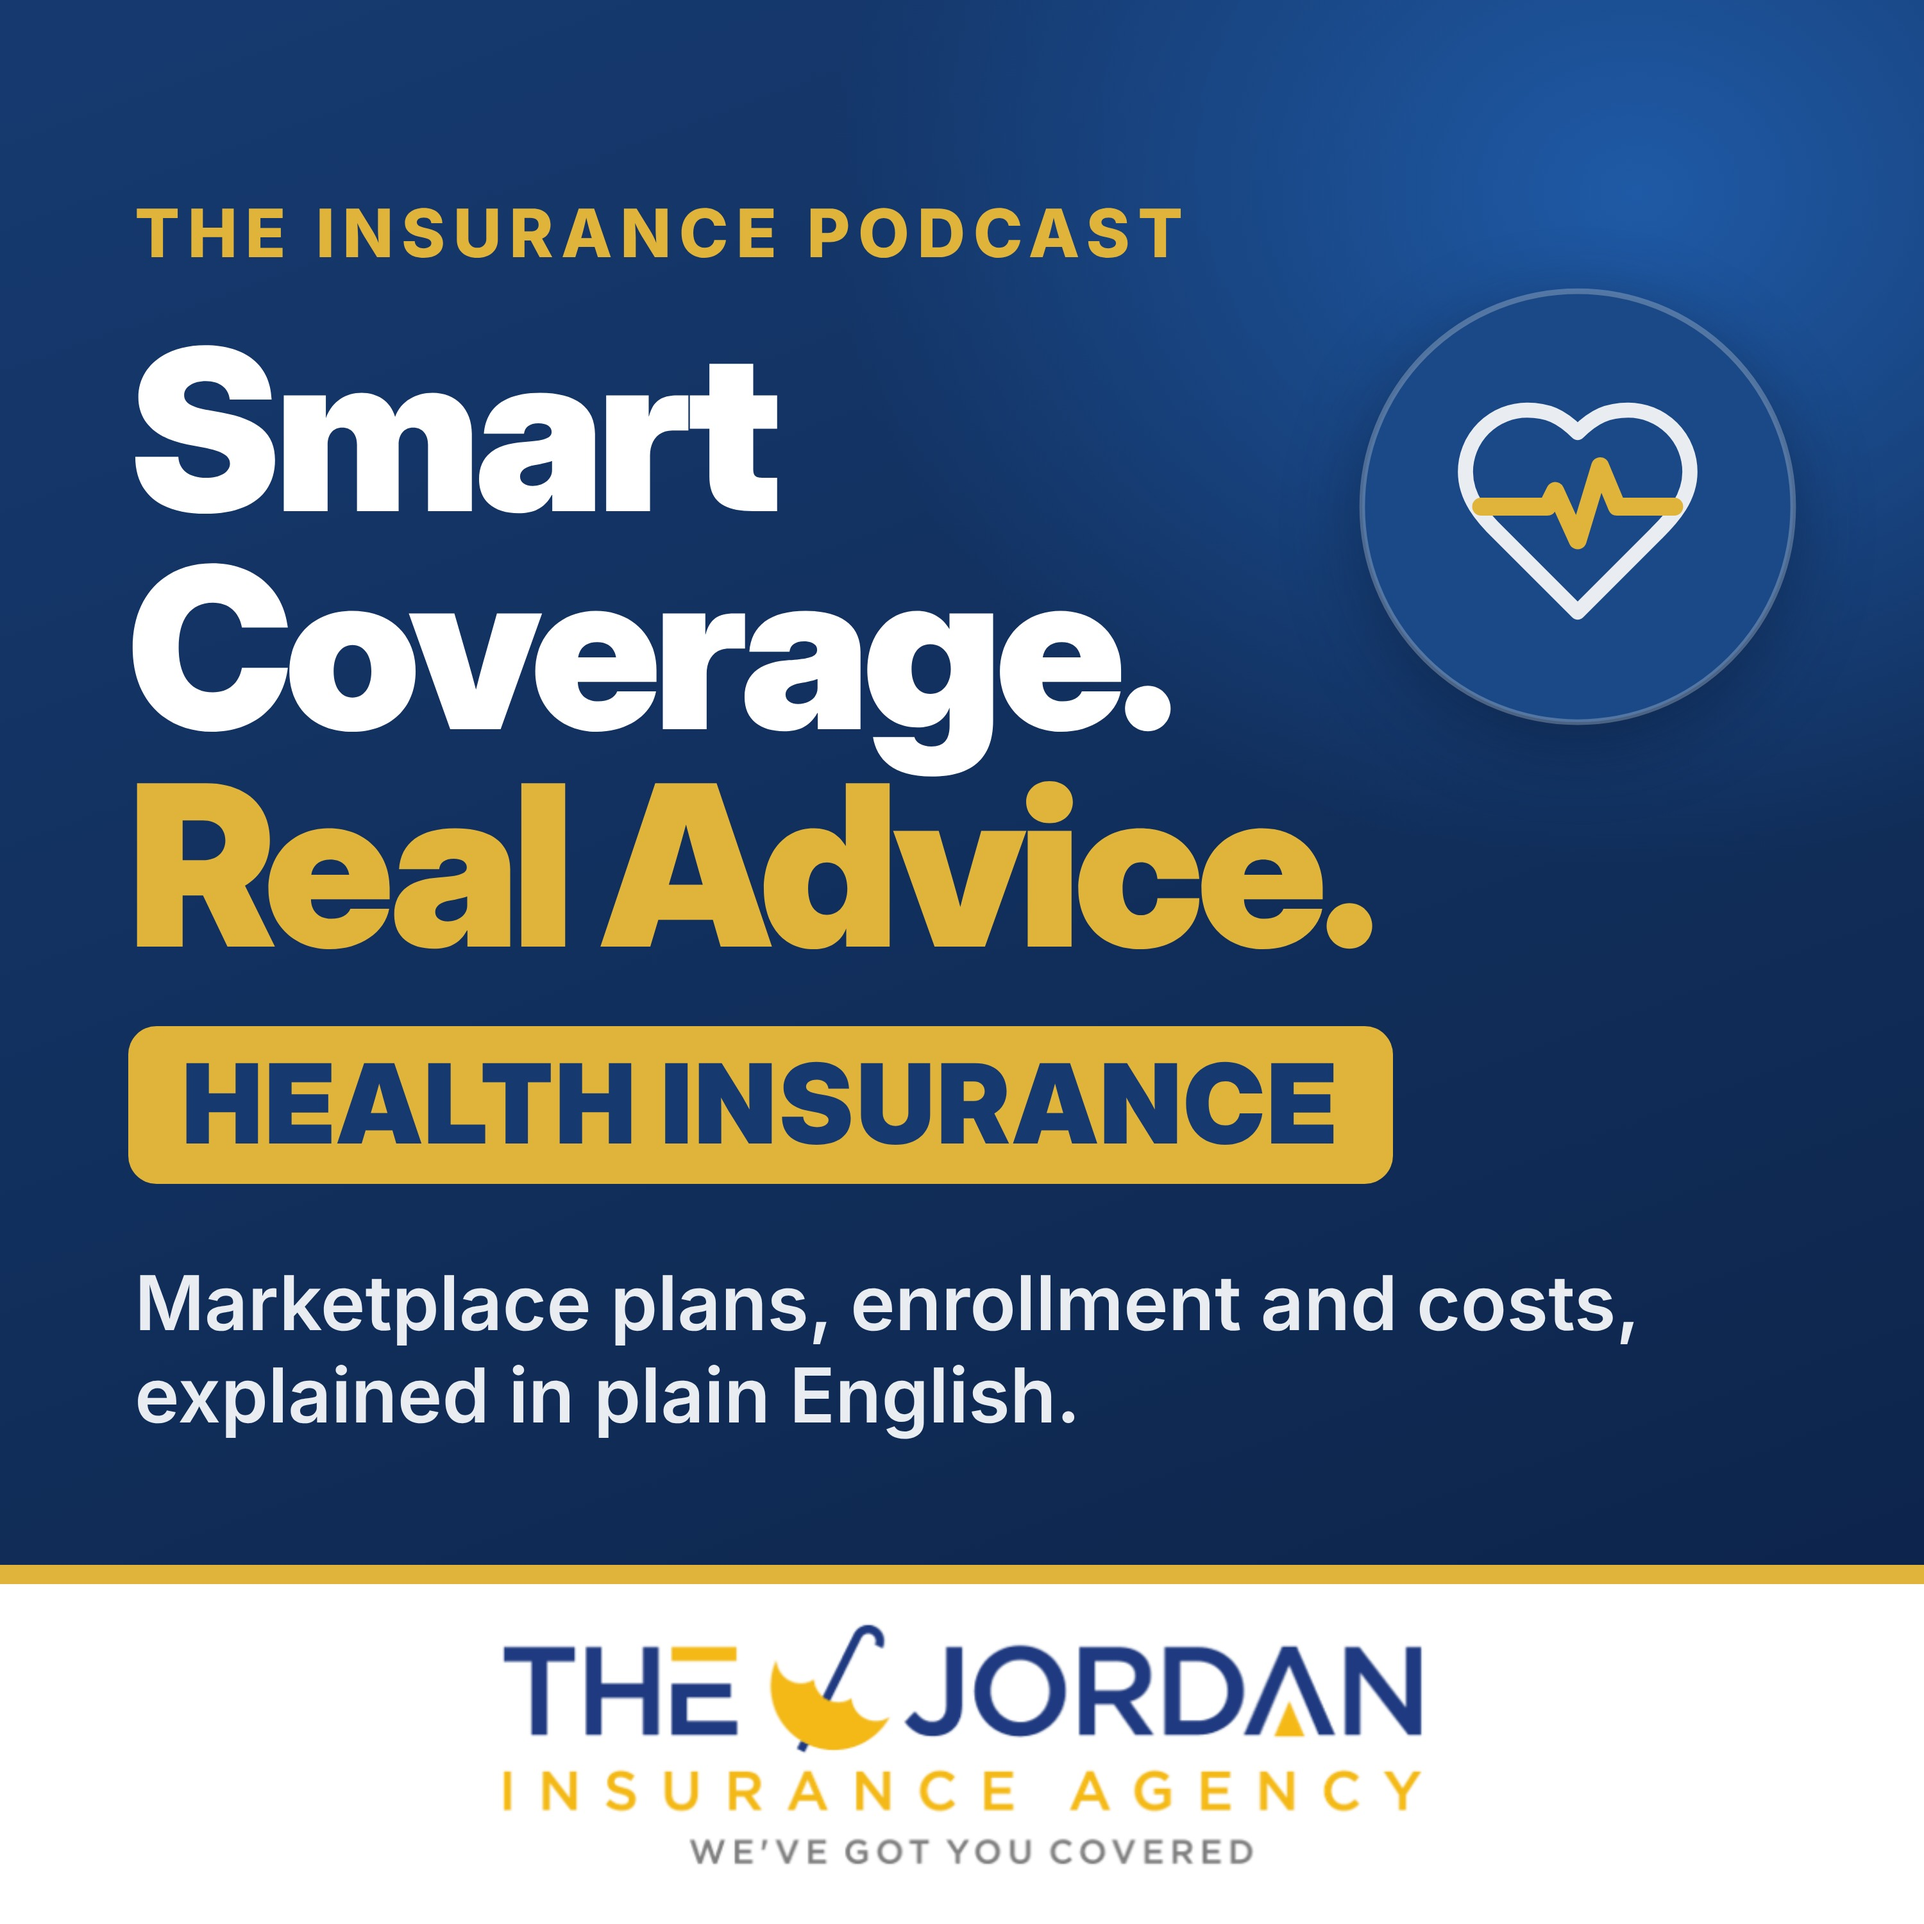
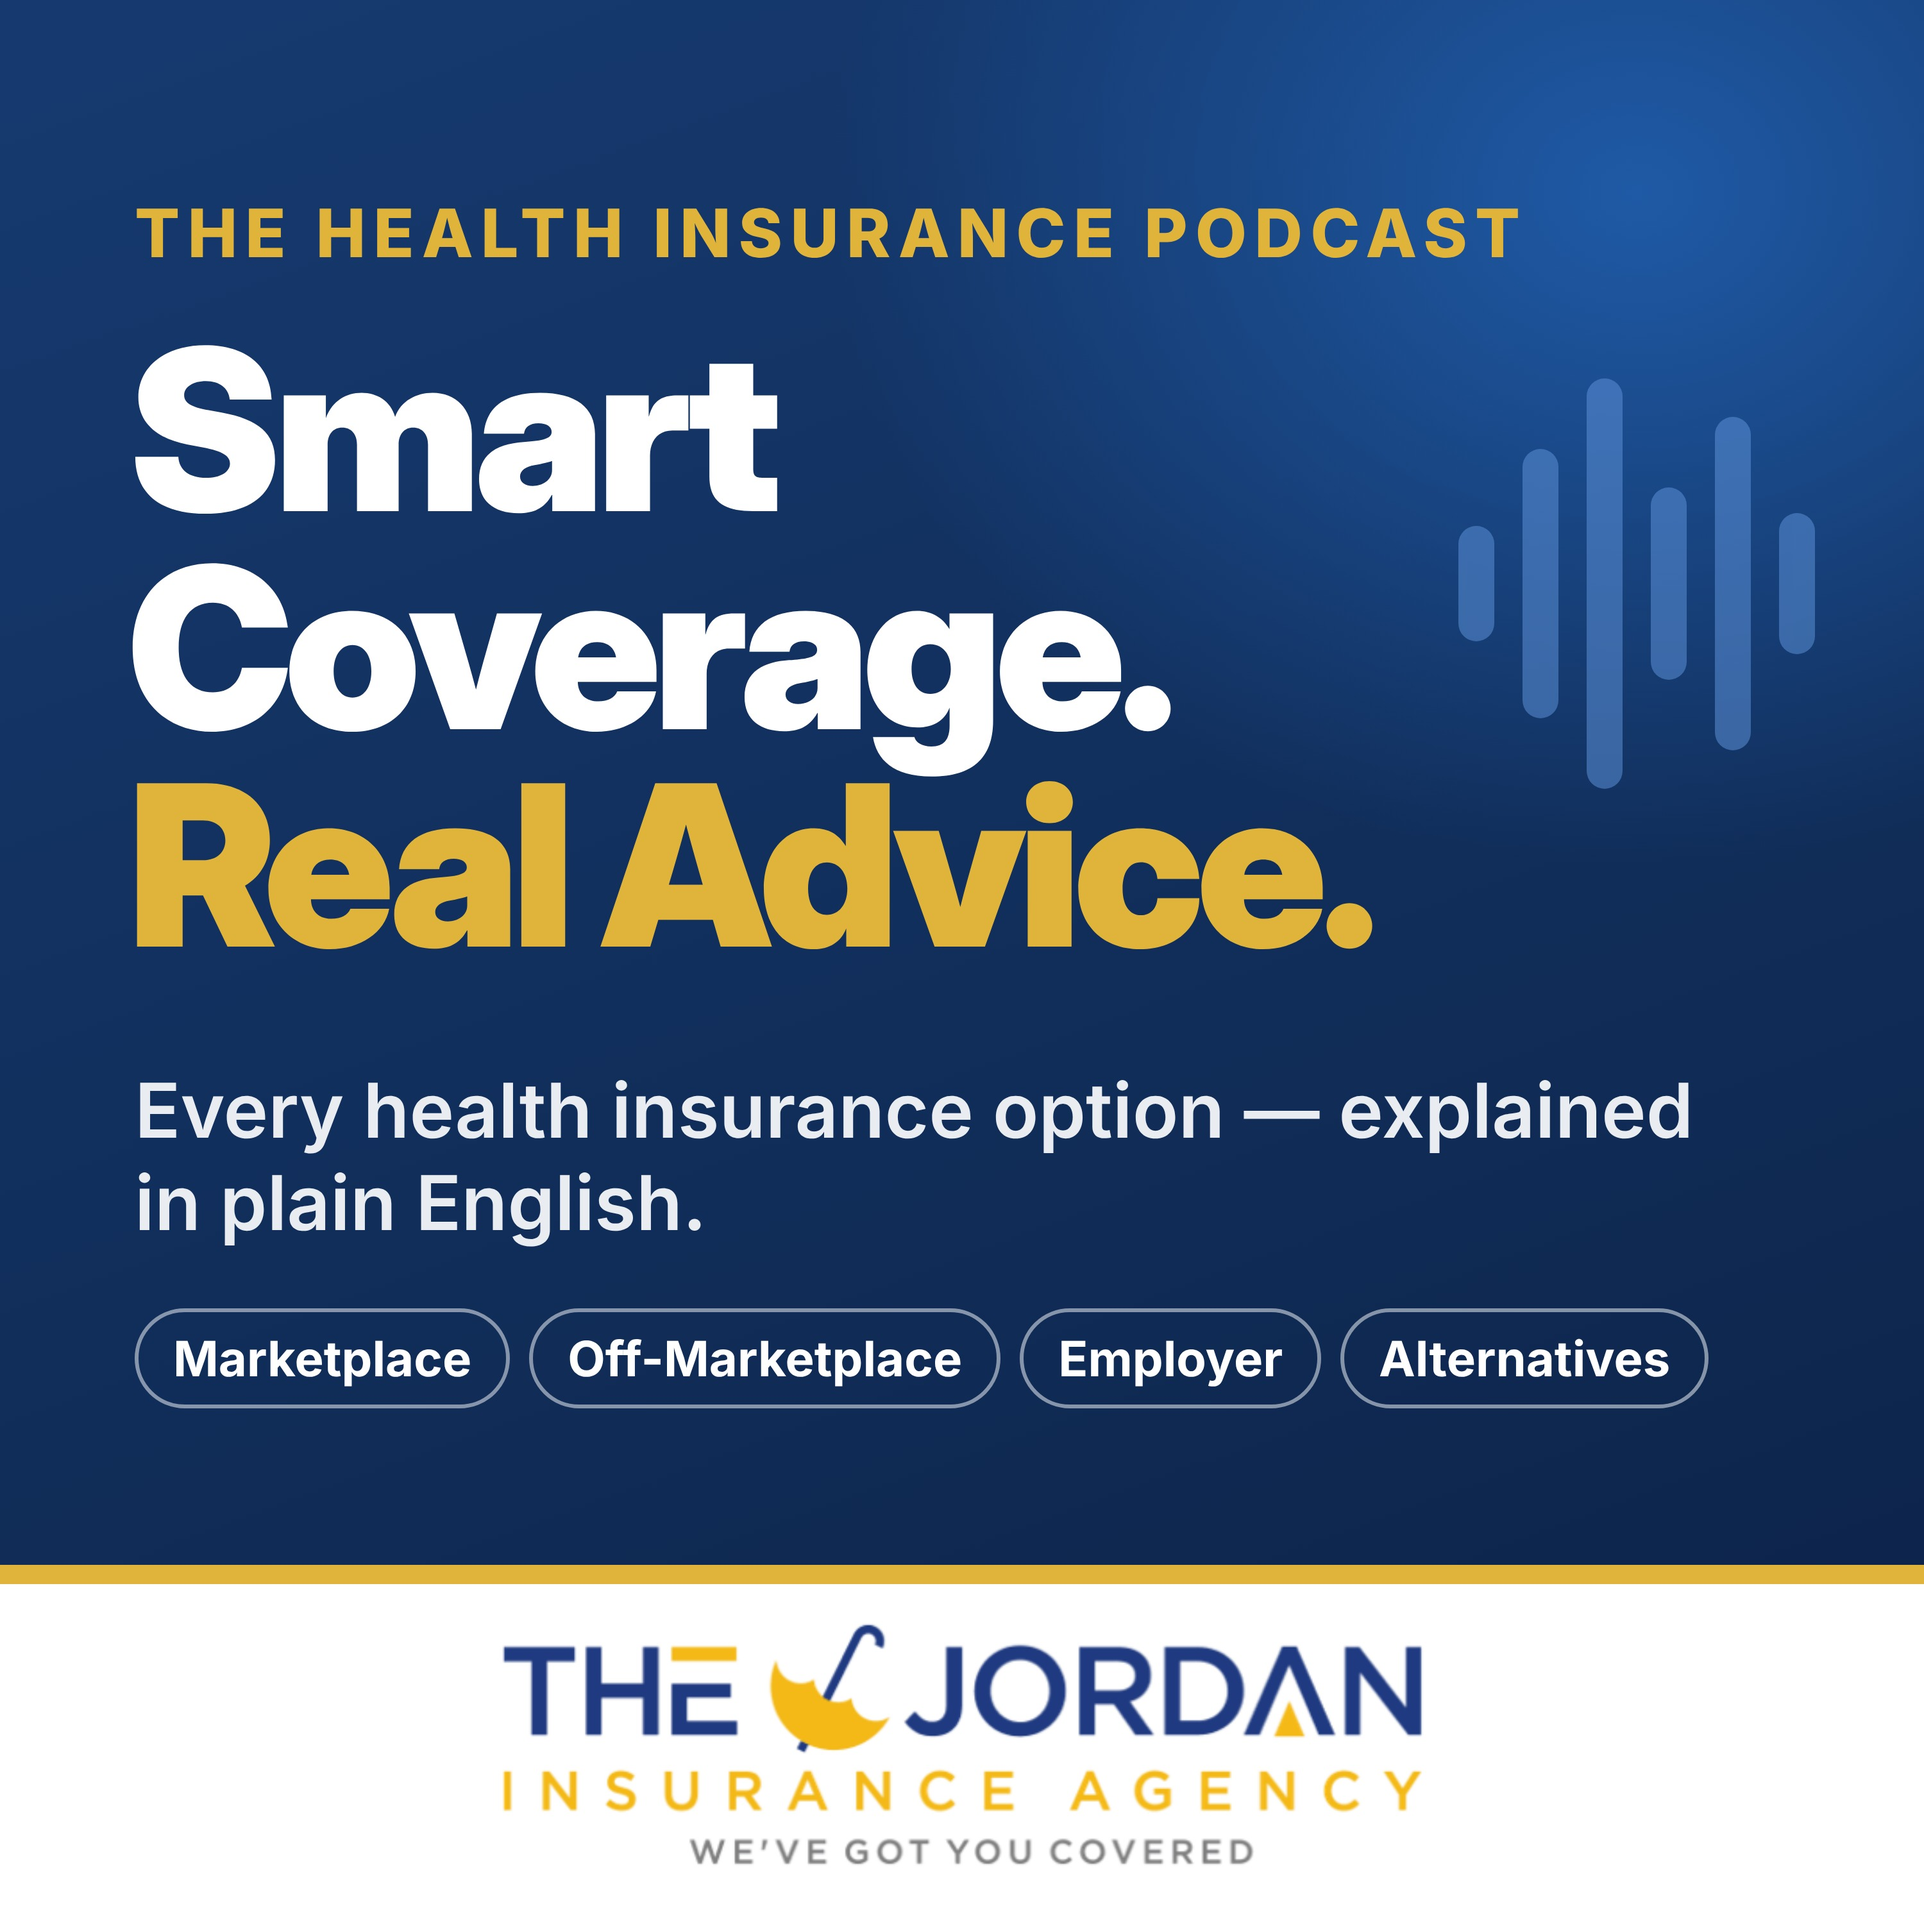
Health show: main-cover design and broader listing
Claude-Session: https://claude.ai/code/session_013V4QW24snhwLaEpdqEFU45

diff --git a/assets/src/the-jordan-insurance-agency-cover-health.html b/assets/src/the-jordan-insurance-agency-cover-health.html
@@ -1,38 +1,32 @@
 <!doctype html>
 <html><head><meta charset="utf-8">
 <style>
-  /* HEALTH INSURANCE show cover art — 3000x3000 (Apple/Spotify spec). Brand: navy/royal dominant, gold accent only. */
+  /* Health Insurance show cover (Billy, Oct 14: same clean look as the main cover, no icon) — 3000x3000 (Apple/Spotify spec). Brand: navy/royal dominant, gold accent only. */
   * { margin:0; padding:0; box-sizing:border-box; }
   body { width:3000px; height:3000px; font-family:"Inter","Inter Display",sans-serif; overflow:hidden; }
   .c { position:relative; width:3000px; height:3000px; color:#fff;
        background: radial-gradient(1800px 1500px at 85% 10%, #1F5AA6 0%, rgba(31,90,166,0) 70%),
                    linear-gradient(160deg, #163A70 0%, #102C57 60%, #0B2145 100%); }
   /* sound-wave motif, royal blue, behind the title */
-  .icon { position:absolute; right:190px; top:440px; width:700px; height:700px; filter: drop-shadow(0 30px 60px rgba(6,20,45,.45)); }
-  .icon svg { width:100%; height:100%; overflow:visible; }
-  .lane { position:absolute; left:200px; top:1600px; background:#E0B43B; color:#163A70; border-radius:44px; padding:34px 84px 40px; font-family:"Inter Display","Inter",sans-serif; font-weight:900; font-size:172px; letter-spacing:4px; line-height:1; }
+  .wave { position:absolute; right:170px; top:560px; display:flex; gap:44px; align-items:center; height:700px; opacity:.55; }
   .wave i { display:block; width:56px; border-radius:28px; background:#5B8FD6; }
   .kicker { position:absolute; left:210px; top:300px; font-weight:800; font-size:104px; letter-spacing:12px;
             color:#E0B43B; text-transform:uppercase; }
   .title { position:absolute; left:200px; top:500px; font-family:"Inter Display","Inter",sans-serif;
            font-weight:900; font-size:350px; line-height:.97; letter-spacing:-12px; }
   .title .gold { color:#E0B43B; }
-  .sub { position:absolute; left:210px; top:1960px; width:2500px; font-weight:600; font-size:118px; line-height:1.22; color:#E9EDF2; }
-  .topics { position:absolute; left:210px; top:2040px; display:flex; gap:36px; flex-wrap:wrap; width:2600px; }
-  .topics span { border:6px solid rgba(233,237,242,.55); border-radius:999px; padding:26px 64px; font-size:84px; font-weight:700; color:#fff; }
+  .sub { position:absolute; left:210px; top:1660px; width:2500px; font-weight:600; font-size:118px; line-height:1.22; color:#E9EDF2; }
+  .topics { position:absolute; left:210px; top:2040px; display:flex; gap:30px; flex-wrap:wrap; width:2640px; }
+  .topics span { border:6px solid rgba(233,237,242,.55); border-radius:999px; padding:26px 54px; font-size:76px; font-weight:700; color:#fff; }
   .panel { position:absolute; left:0; right:0; bottom:0; height:560px; background:#fff; display:flex; align-items:center; justify-content:center; }
   .panel::before { content:""; position:absolute; top:0; left:0; right:0; height:30px; background:#E0B43B; }
   .panel img { width:1500px; }
 </style></head>
 <body><div class="c">
-  <div class="icon"><svg viewBox="0 0 200 200" xmlns="http://www.w3.org/2000/svg"><circle cx="100" cy="100" r="96" fill="#1B4886"/><circle cx="100" cy="100" r="96" fill="none" stroke="#E9EDF2" stroke-opacity=".28" stroke-width="2.5"/>
-<g transform="translate(40,42) scale(5)" fill="none" stroke-linecap="round" stroke-linejoin="round">
- <path d="M19 14c1.49-1.46 3-3.21 3-5.5A5.5 5.5 0 0 0 16.5 3c-1.76 0-3 .5-4.5 2-1.5-1.5-2.74-2-4.5-2A5.5 5.5 0 0 0 2 8.5c0 2.3 1.5 4.05 3 5.5l7 7Z" stroke="#E9EDF2" stroke-width="1.35"/>
- <path d="M3.4 11.6H9.3l.7-1.4 2 4.4 2-6.6 1.5 3.6h5.1" stroke="#E0B43B" stroke-width="1.6"/>
-</g></svg></div>
-  <div class="kicker">The Insurance Podcast</div>
+  <div class="wave"><i style="height:180px"></i><i style="height:420px"></i><i style="height:640px"></i><i style="height:300px"></i><i style="height:520px"></i><i style="height:220px"></i></div>
+  <div class="kicker">The Health Insurance Podcast</div>
   <div class="title">Smart<br>Coverage.<br><span class="gold">Real Advice.</span></div>
-  <div class="lane">HEALTH INSURANCE</div>
-  <div class="sub">Marketplace plans, enrollment and costs, explained in plain English.</div>
+  <div class="sub">Every health insurance option — explained in plain English.</div>
+  <div class="topics"><span>Marketplace</span><span>Off-Marketplace</span><span>Employer</span><span>Alternatives</span></div>
   <div class="panel"><img src="the-jordan-insurance-agency-logo-cropped.png" alt="The Jordan Insurance Agency"></div>
 </div></body></html>

diff --git a/references/transistor-lane-shows.md b/references/transistor-lane-shows.md
@@ -31,10 +31,17 @@ Every show: Author **Billy Jordan**, Owner **The Jordan Insurance Agency**, Lang
 - **Description:** Smart Coverage. Real Advice.: Medicare is the Medicare podcast from The Jordan Insurance Agency. Licensed insurance agent Billy Jordan and AI host Tanya answer the questions people ask about Medicare, in plain English: when to enroll, how the parts work, and what to compare during Annual Enrollment. General education, not personalized advice. Voices are AI-generated from scripts reviewed and approved by Billy Jordan. Not affiliated with or endorsed by Medicare or any government agency. Episodes and written guides: thejordaninsuranceagency.com/podcast
 
 ## Health Insurance
+Updated Oct 14 (Billy): the show covers every kind of health coverage, not just the Marketplace. The cover uses the
+same clean design as the main show (no icon).
 - **Title:** Smart Coverage. Real Advice.: Health Insurance
 - **Artwork:** `assets/the-jordan-insurance-agency-podcast-cover-health-3000.jpg`
 - **Categories:** Health & Fitness; Education
-- **Description:** Smart Coverage. Real Advice.: Health Insurance is the health insurance podcast from The Jordan Insurance Agency. Licensed insurance agent Billy Jordan and AI host Tanya answer the questions people ask about health coverage, in plain English: Marketplace plans, Special Enrollment, losing job-based coverage, and what to compare before you enroll. General education, not personalized advice. Voices are AI-generated from scripts reviewed and approved by Billy Jordan. Episodes and written guides: thejordaninsuranceagency.com/podcast
+- **Author:** Billy Jordan | The Jordan Insurance Agency · **Show Owner:** The Jordan Insurance Agency (same as the main show)
+- **Copyright:** © 2026 The Jordan Insurance Agency
+- **Keywords:** health insurance, health insurance options, ACA marketplace, off-marketplace health insurance, individual and family health insurance, employer health insurance, short-term health insurance, insurance agent, North Carolina, Tennessee
+- **Website:** https://thejordaninsuranceagency.com/podcast
+- **Owner Email:** podcast@thejordaninsuranceagency.com (tick "add to RSS feed" if offered)
+- **Description:** Smart Coverage. Real Advice.: Health Insurance is the health insurance podcast from The Jordan Insurance Agency. Licensed insurance agent Billy Jordan and AI host Tanya walk through every kind of health coverage in plain English: Marketplace plans and plans sold outside the Marketplace, employer and group coverage, short-term and other alternative plans, and how to compare them, so you can find more options and choose with confidence. General education, not personalized advice. Voices are AI-generated from scripts reviewed and approved by Billy Jordan. Episodes and written guides: thejordaninsuranceagency.com/podcast
 
 ## Home & Auto
 - **Title:** Smart Coverage. Real Advice.: Home & Auto

diff --git a/CHANGELOG.md b/CHANGELOG.md
@@ -10,6 +10,11 @@ commits. Entries from Oct 13 on use this repository's own hashes.
 
 ## 2026-10-14
 
+### Changed — Health Insurance show cover and listing (assets; setup sheet)
+- Billy wanted the Health show to look like the main show and to cover all health insurance, not just the Marketplace. The new cover is the main cover's clean design: "The Health Insurance Podcast" on top, "Every health insurance option — explained in plain English.", and Marketplace, Off-Marketplace, Employer and Alternatives along the bottom. No icon.
+- The show description now covers plans on and off the Marketplace, employer and group coverage, and short-term and other alternative plans. All the Transistor fields (copyright, keywords, website, owner email) are in `references/transistor-lane-shows.md`.
+- The show is being set up but stays unused: all episodes keep going to the main show.
+
 ### Changed — two episodes a day through open enrollment (n8n Episode Producer, Front Door; Studio page; docs; commit 42154c3)
 - From Oct 14 to Jan 15, every day gets two episodes on the main show: **Medicare at 9:00 AM** and **Health at 3:00 PM** Eastern. This matches the blog goal of two posts a day for the same 90 days. On Jan 16 it goes back to one a day at 9:00 AM automatically.
 - **Scheduling:** Medicare and Health each have their own queue, so a busy Medicare week never pushes Health off its time, and the reverse. A date you pick keeps that topic's time slot.
